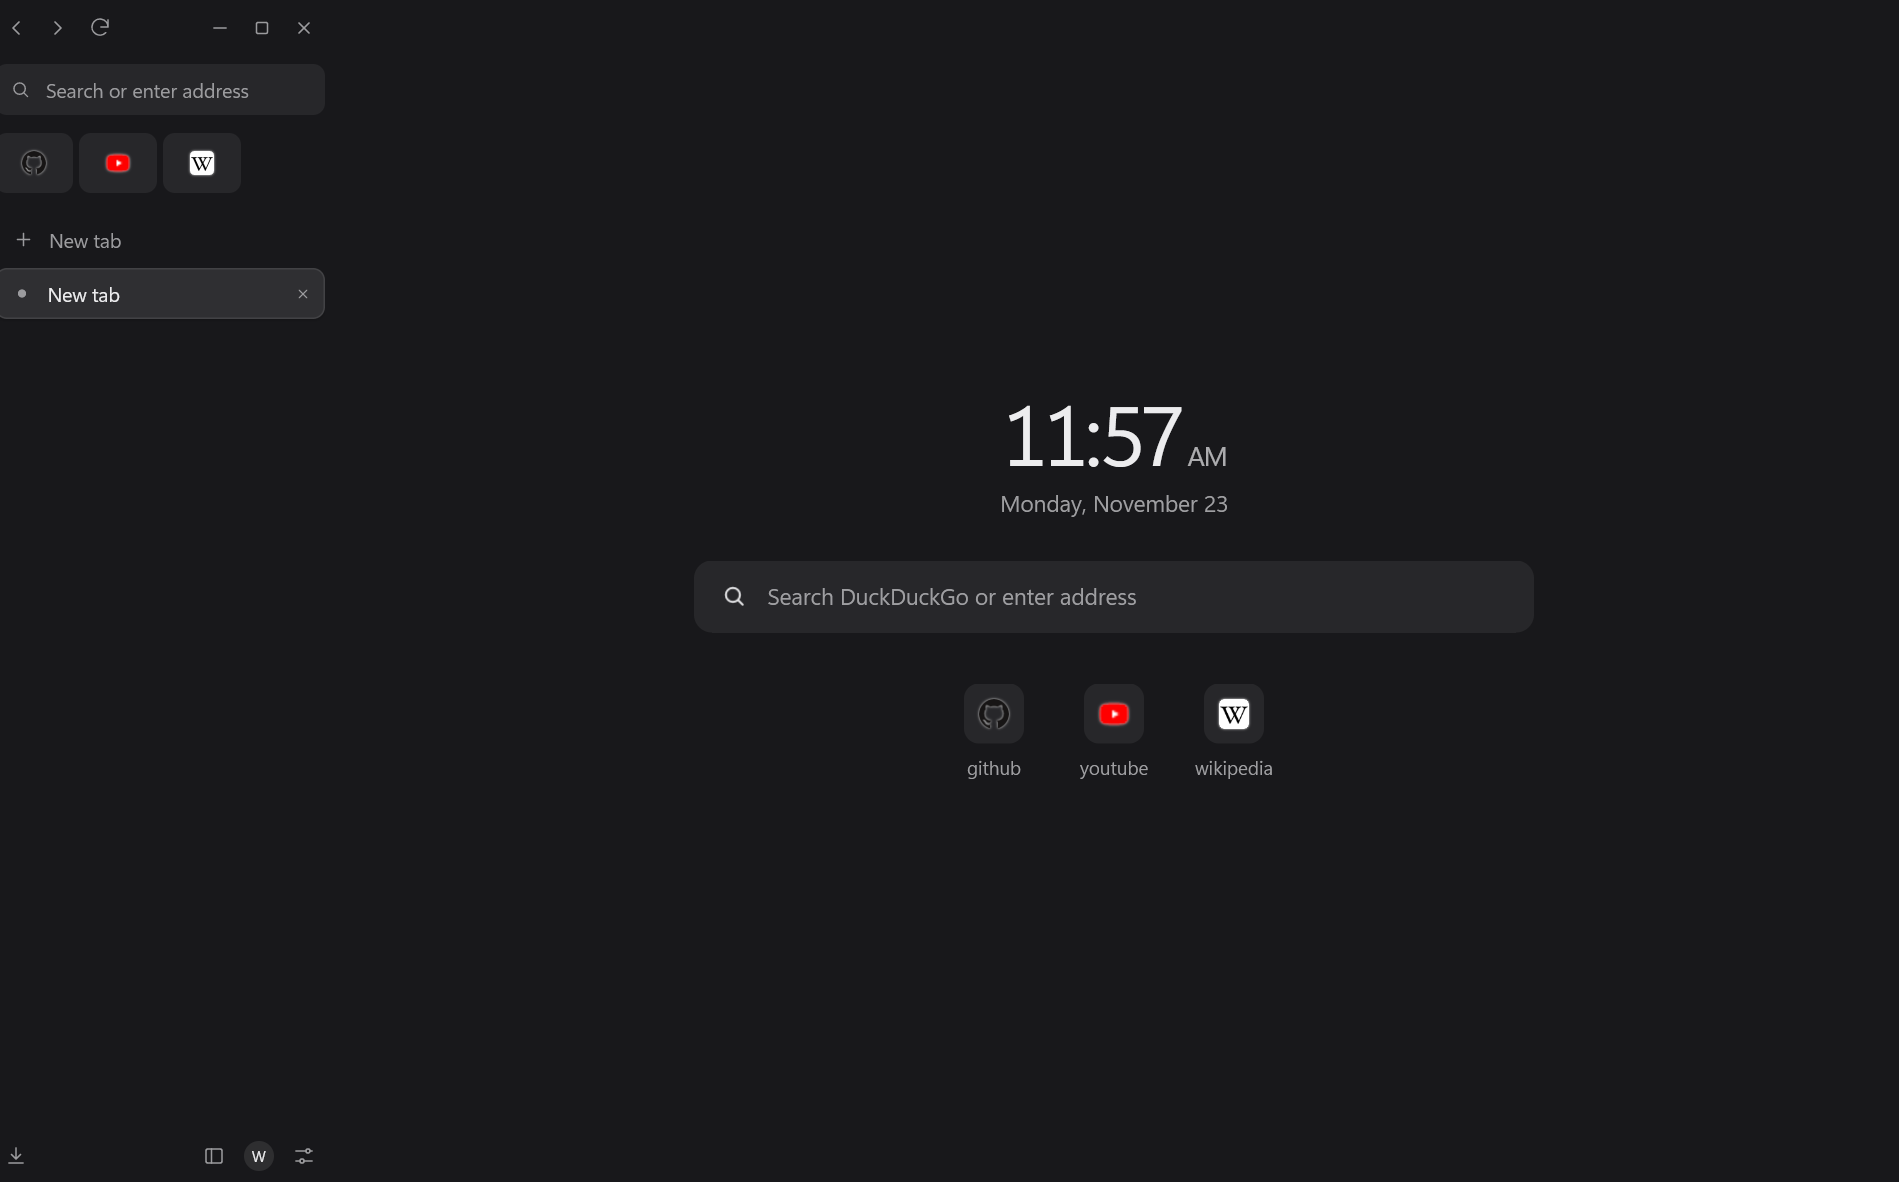
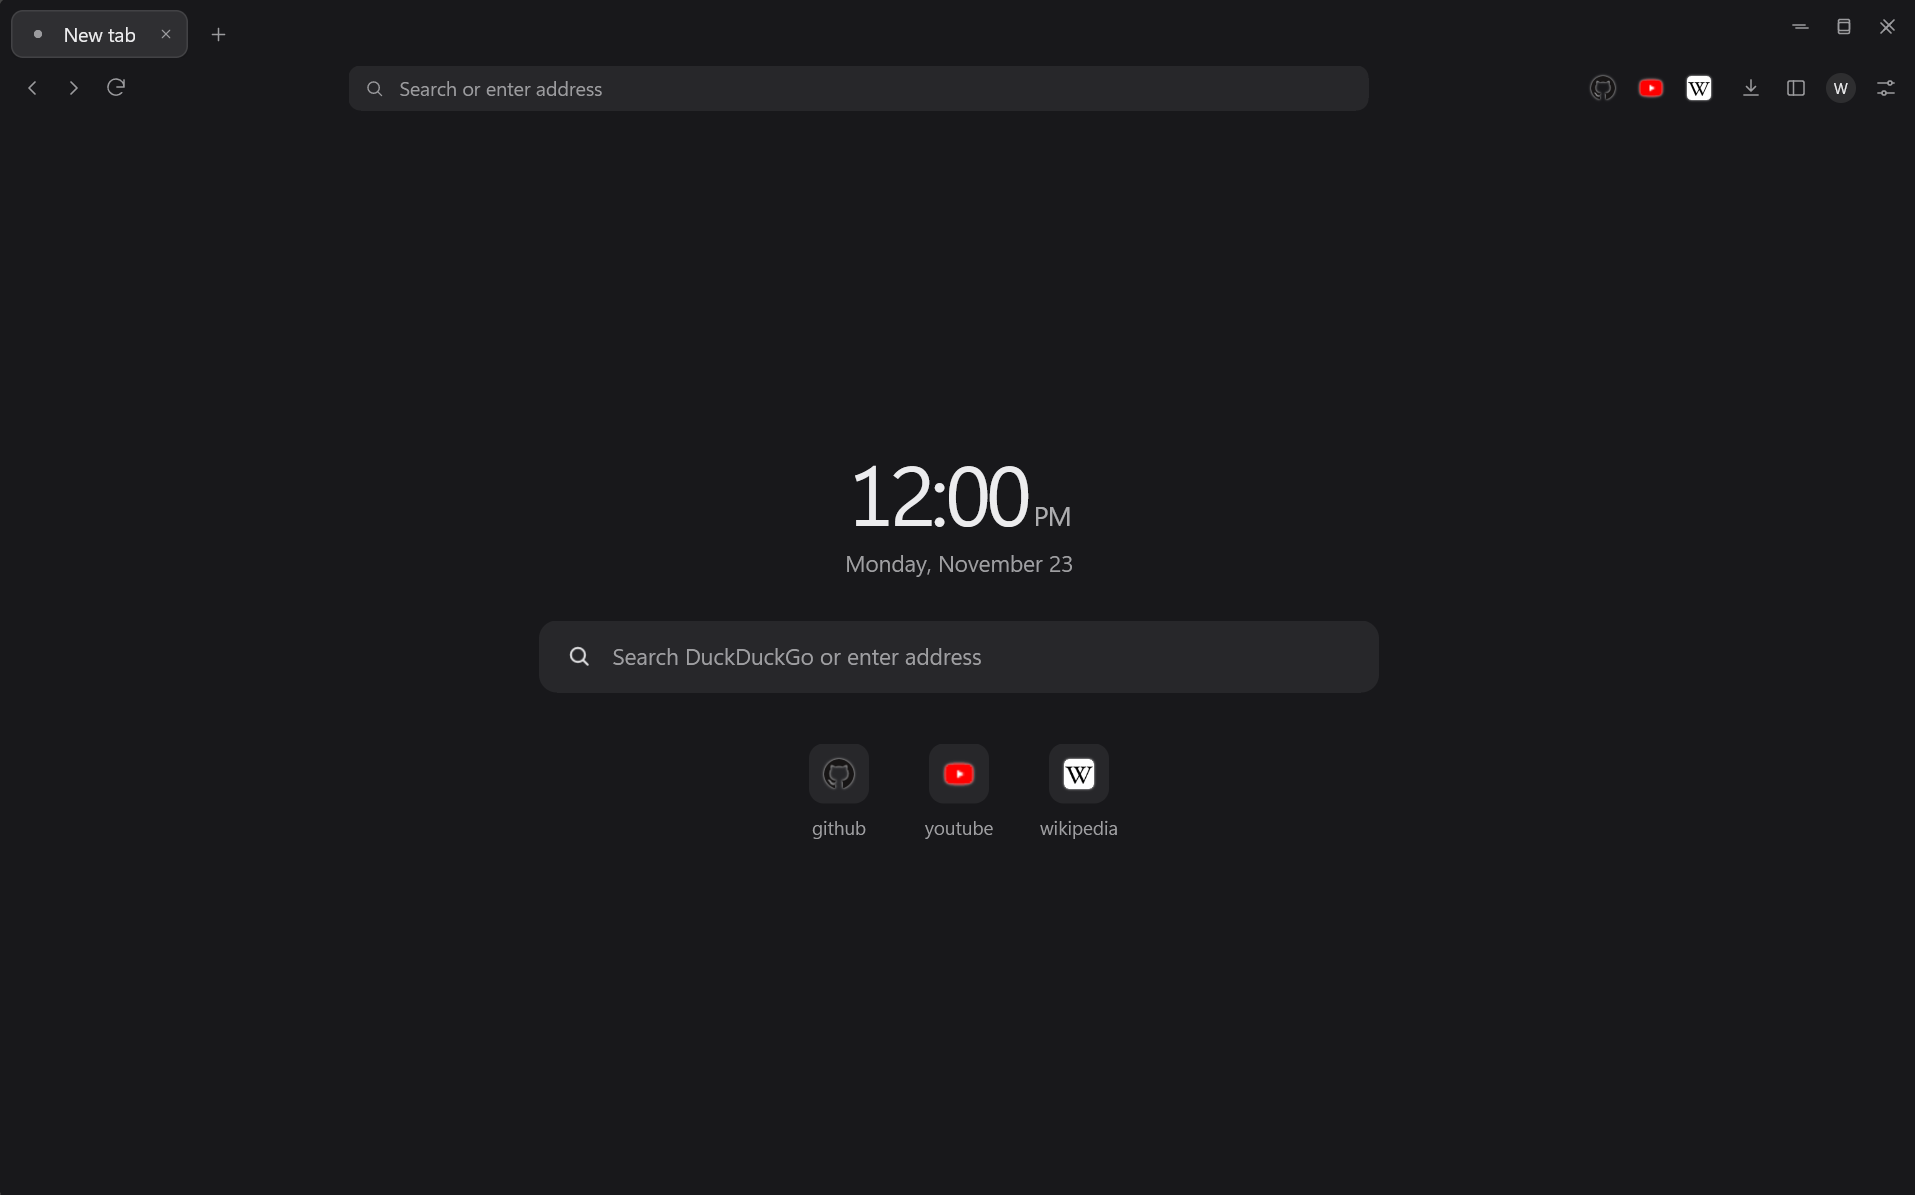
docs: README screenshot with tabs along the top

diff --git a/README.md b/README.md
@@ -15,7 +15,7 @@ A fast, light desktop browser for Windows, built on its own Servo engine.
 
 <br>
 
-<img src="assets/screenshot.png" alt="Velocity's new tab page, with the tab sidebar on the left and search, clock and Essentials in the middle" width="900">
+<img src="assets/screenshot.png" alt="Velocity's new tab page, with tabs and the address bar along the top and the clock, search and Essentials in the middle" width="900">
 
 </div>
 
@@ -30,7 +30,7 @@ The aim is a browser that opens quickly, stays light on memory while you work, a
 
 ### Interface
 
-- Vertical tabs in a sidebar, on the left or right, with Essentials for the sites you keep open.
+- Tabs along the top or in a vertical sidebar on the left or right, with Essentials for the sites you keep open.
 - Compact mode hides the sidebar until the mouse reaches the window edge.
 - A new tab page with a clock, search and your own background image or video. Wallpaper Engine backgrounds can be imported.
 - Dark and light themes, an accent color, and adjustable sidebar width, page spacing and corner radius.
